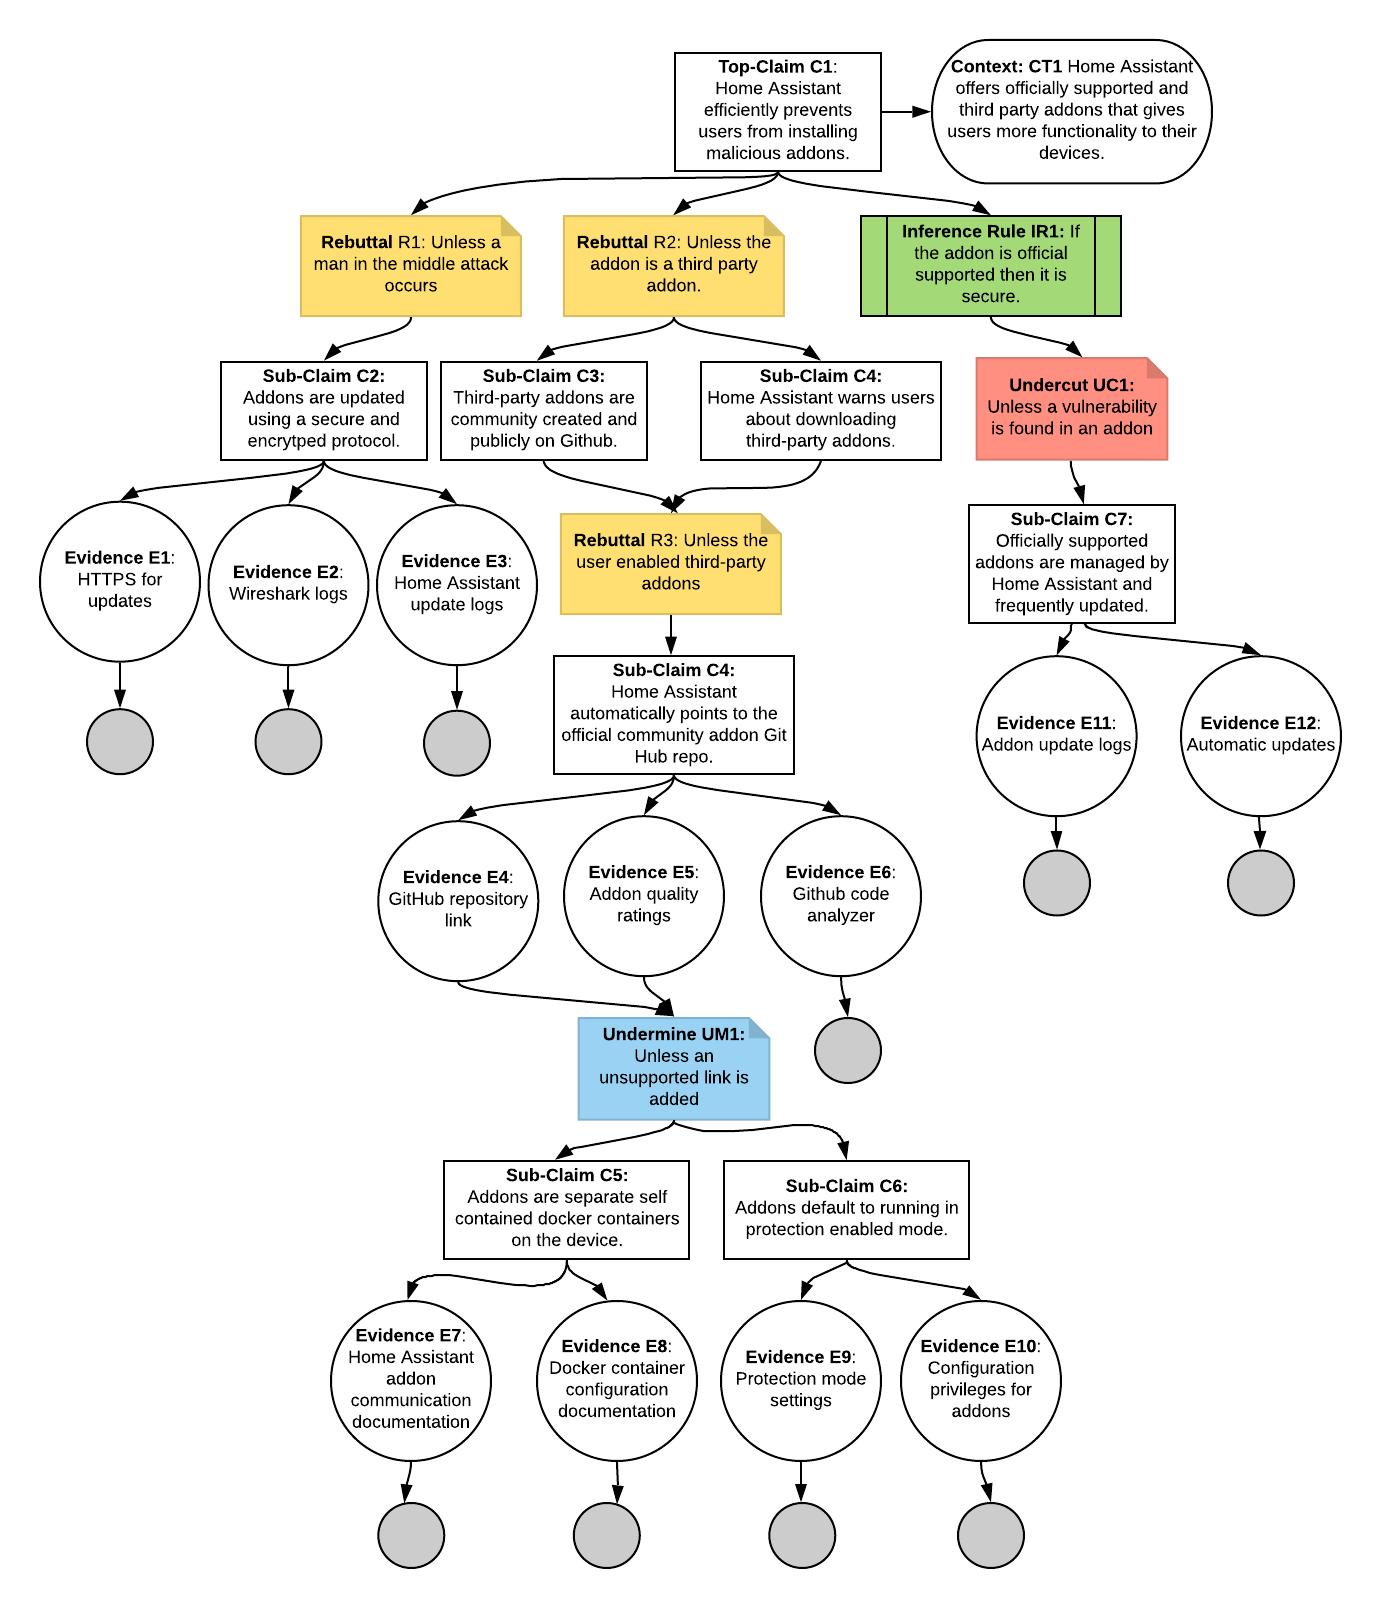
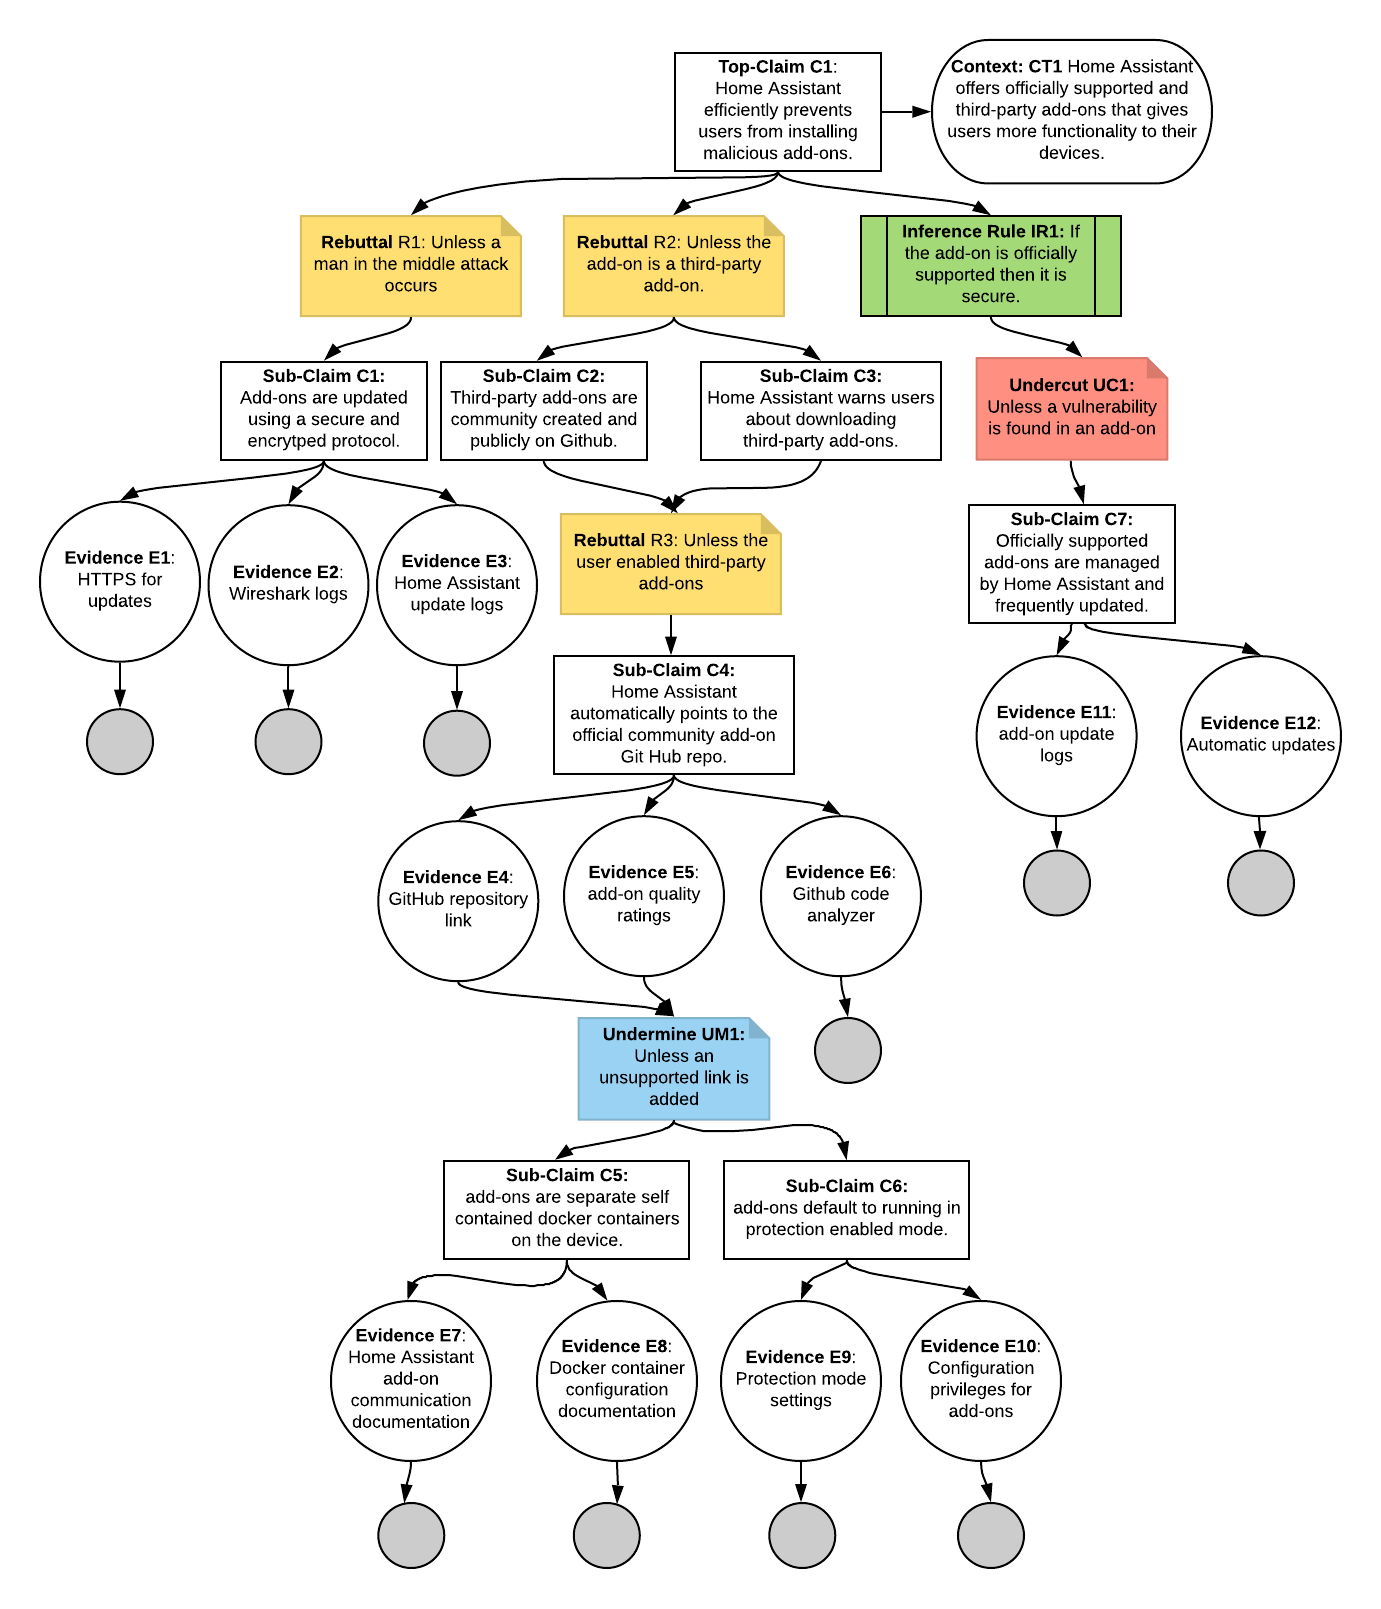
Updated image, added evidence

diff --git a/Assurance Cases.md b/Assurance Cases.md
@@ -64,8 +64,13 @@ The final gap that I noticed was with evidence E6. [Fail2Ban]( https://pimylifeu
 ![Assurance Case 4 Diagram:](/images/Assurance_Case_4.png)
 
 #### Evidence for Assurance Case 4
+Home Assistant offers both officially supported add-ons as well as third-party add-ons to fully utilize the capabilities of home automation with Home Assistant. They encourage users to develop their own add-ons if there are not any officially supported or third-party add-ons that support devices that users want. They also encourage those who have created add-ons to contribute to the community by publishing them to the public. Home Assistant has even created a tutorial document for advanced users who want to begin [creating and publishing add-ons](https://developers.home-assistant.io/docs/add-ons). This feature is a major aspect of Home Assistant's usability and integration ability with home automation, but this also creates a major risk to the security of the application with the possiblity of malicious add-ons.
 
-.red[TODO] Insert Evidence 4
+As you can see in Rebuttal R1, installing malicious add-ons are not the only security risk. With Home Assistant having to communicate with outside repositories when downloading add-ons and updates this adds a risk of a MiTM attack. Home Assistant utilizies HTTPS encryption to try to prevent these attacks. Wireshark logs and update logs could also be implemented to monitor any suspicious activity.
+
+As for Rebuttal R2 with third-party add-ons, Home Assistant community-made third-party add-ons are all publicly published on [GitHub](https://github.com/hassio-addons), explained in sub-claim C2. To prevent any risk from installing any malicious third-party add-ons, Home Assistant warns users about the risk of installing add-ons multiple times shown on their [website](https://www.home-assistant.io/hassio/installing_third_party_addons/#:~:text=Installing%20third-party%20add-ons%20Home%20Assistant%20allows%20anyone%20to,you%20can%20use%20our%20example%20add-on%20repository%20at) and within the application. If the user still enables third-party add-ons such as said in Rebuttal R3, Home Assistant makes sure that it points to the official community add-on repo said in sub-claim C4. Evidence E5 states that Home Assistant provides quality ratings on all third-party add-ons within the community repository with 6 being very secure and 1 meaning that users should not install it unless they are 100% sure that they can trust the source. Evidence E4 supports this sub-claim as well by making sure that users provide a github link that they can trust based on Evidence E5 as well as Evidence E6 which Home Assitant can utilize the [Github code scanner](https://github.blog/2020-09-30-code-scanning-is-now-available/) to find security vulnerabilities within the repositories. Though, if a user provides a unsupported/bad github link stated in Undermine UM1, Sub-claim C5 states that Home Assistant runs all add-ons on seperate self-contained docker containers to prevent any malicious add-on from taking over the system with Evidence E7 and E8 to support this claim from [Home Assistant add-on communication document](https://developers.home-assistant.io/docs/add-ons/communication) and [add-on configuration document](https://developers.home-assistant.io/docs/add-ons/configuration). Sub-claim C6 also states that all add-ons are ran in protection enabled mode with Evidence E9 and E10 to support this claim from the [Add-on security document](https://developers.home-assistant.io/docs/add-ons/security) and the [Add-on configuration document](https://developers.home-assistant.io/docs/add-ons/configuration).
+
+As for Home Assitant official add-ons, we presume that they are secure and if a vulnerability is found such as stated in Undercut UC1, Sub-claim C7 states that all officially supported add-ons are managed by the core team of Home Assistant and are frequently updated and monitored with logs stated in Evidence E11 and E12.
 
 #### [Return to top](#assurance-case-list)
 
